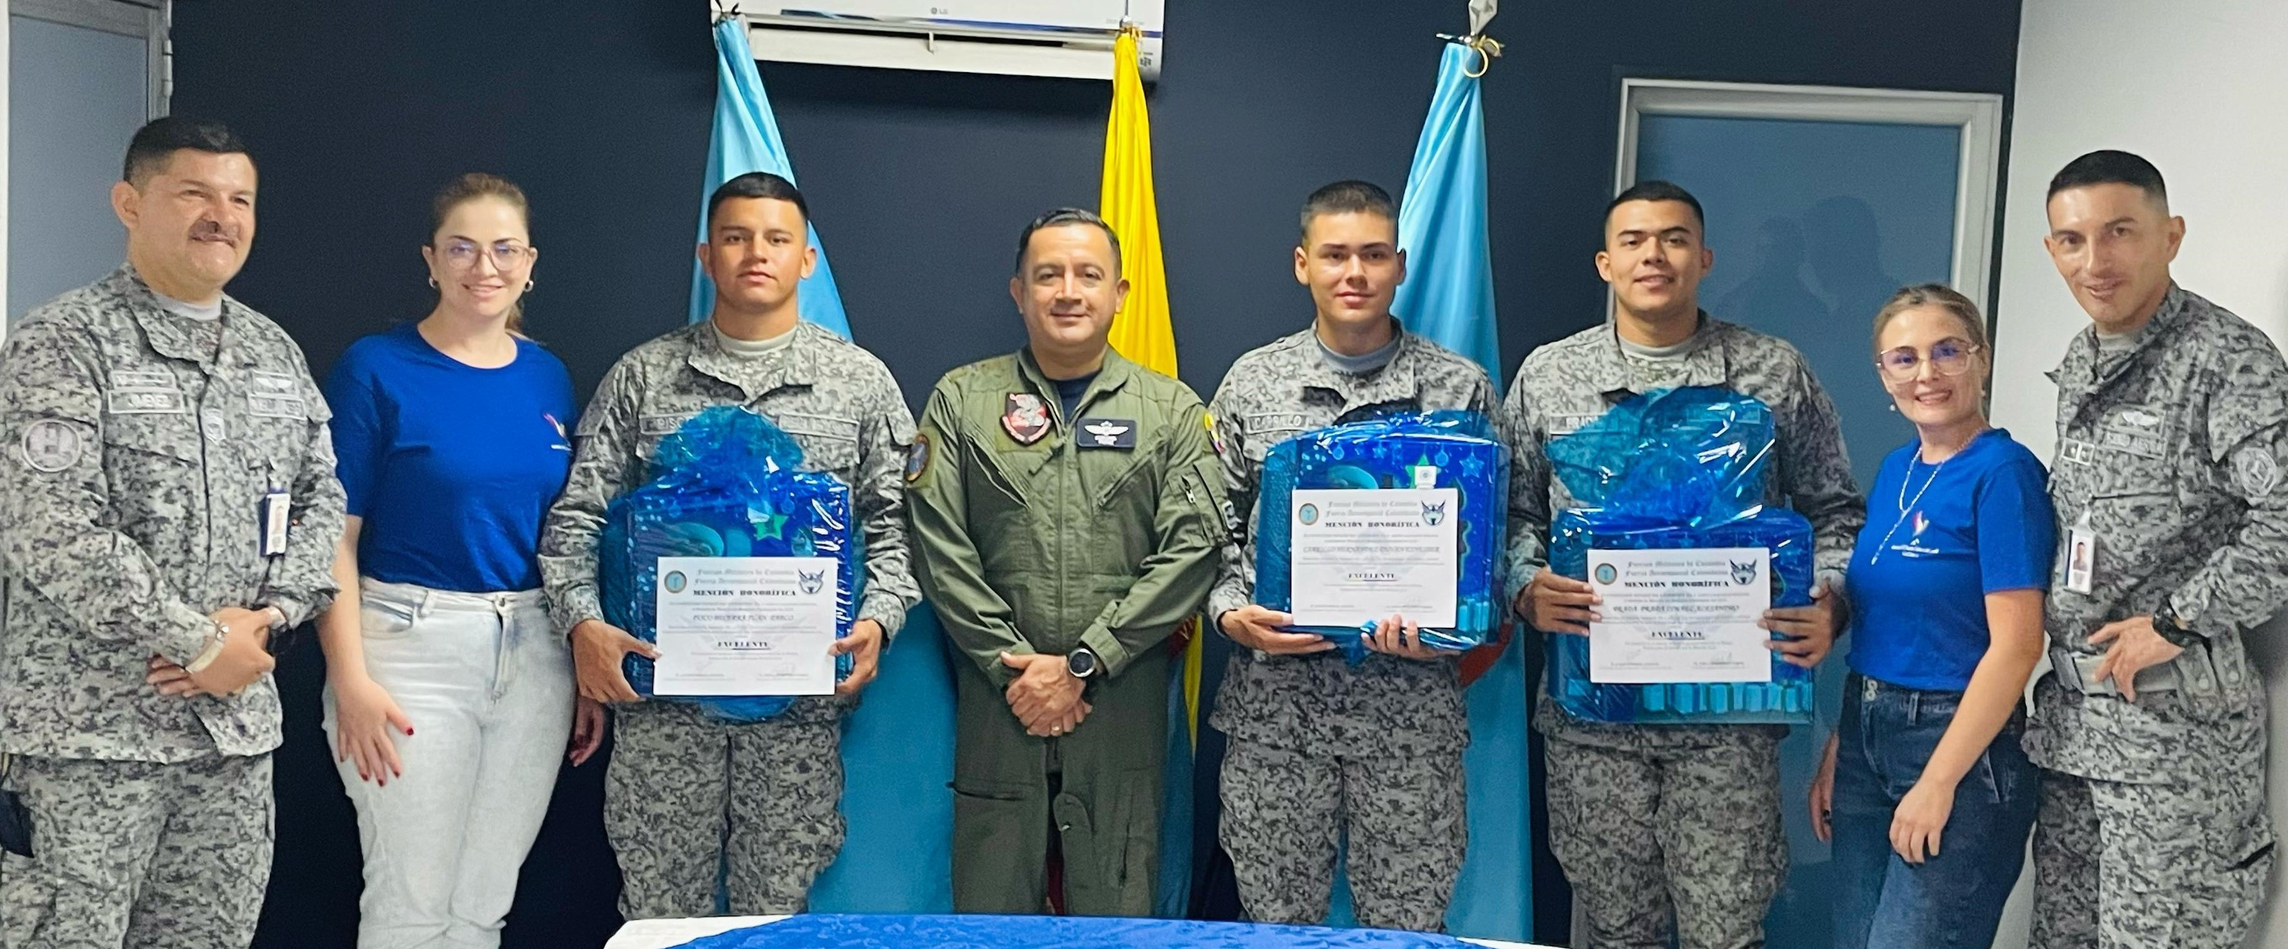
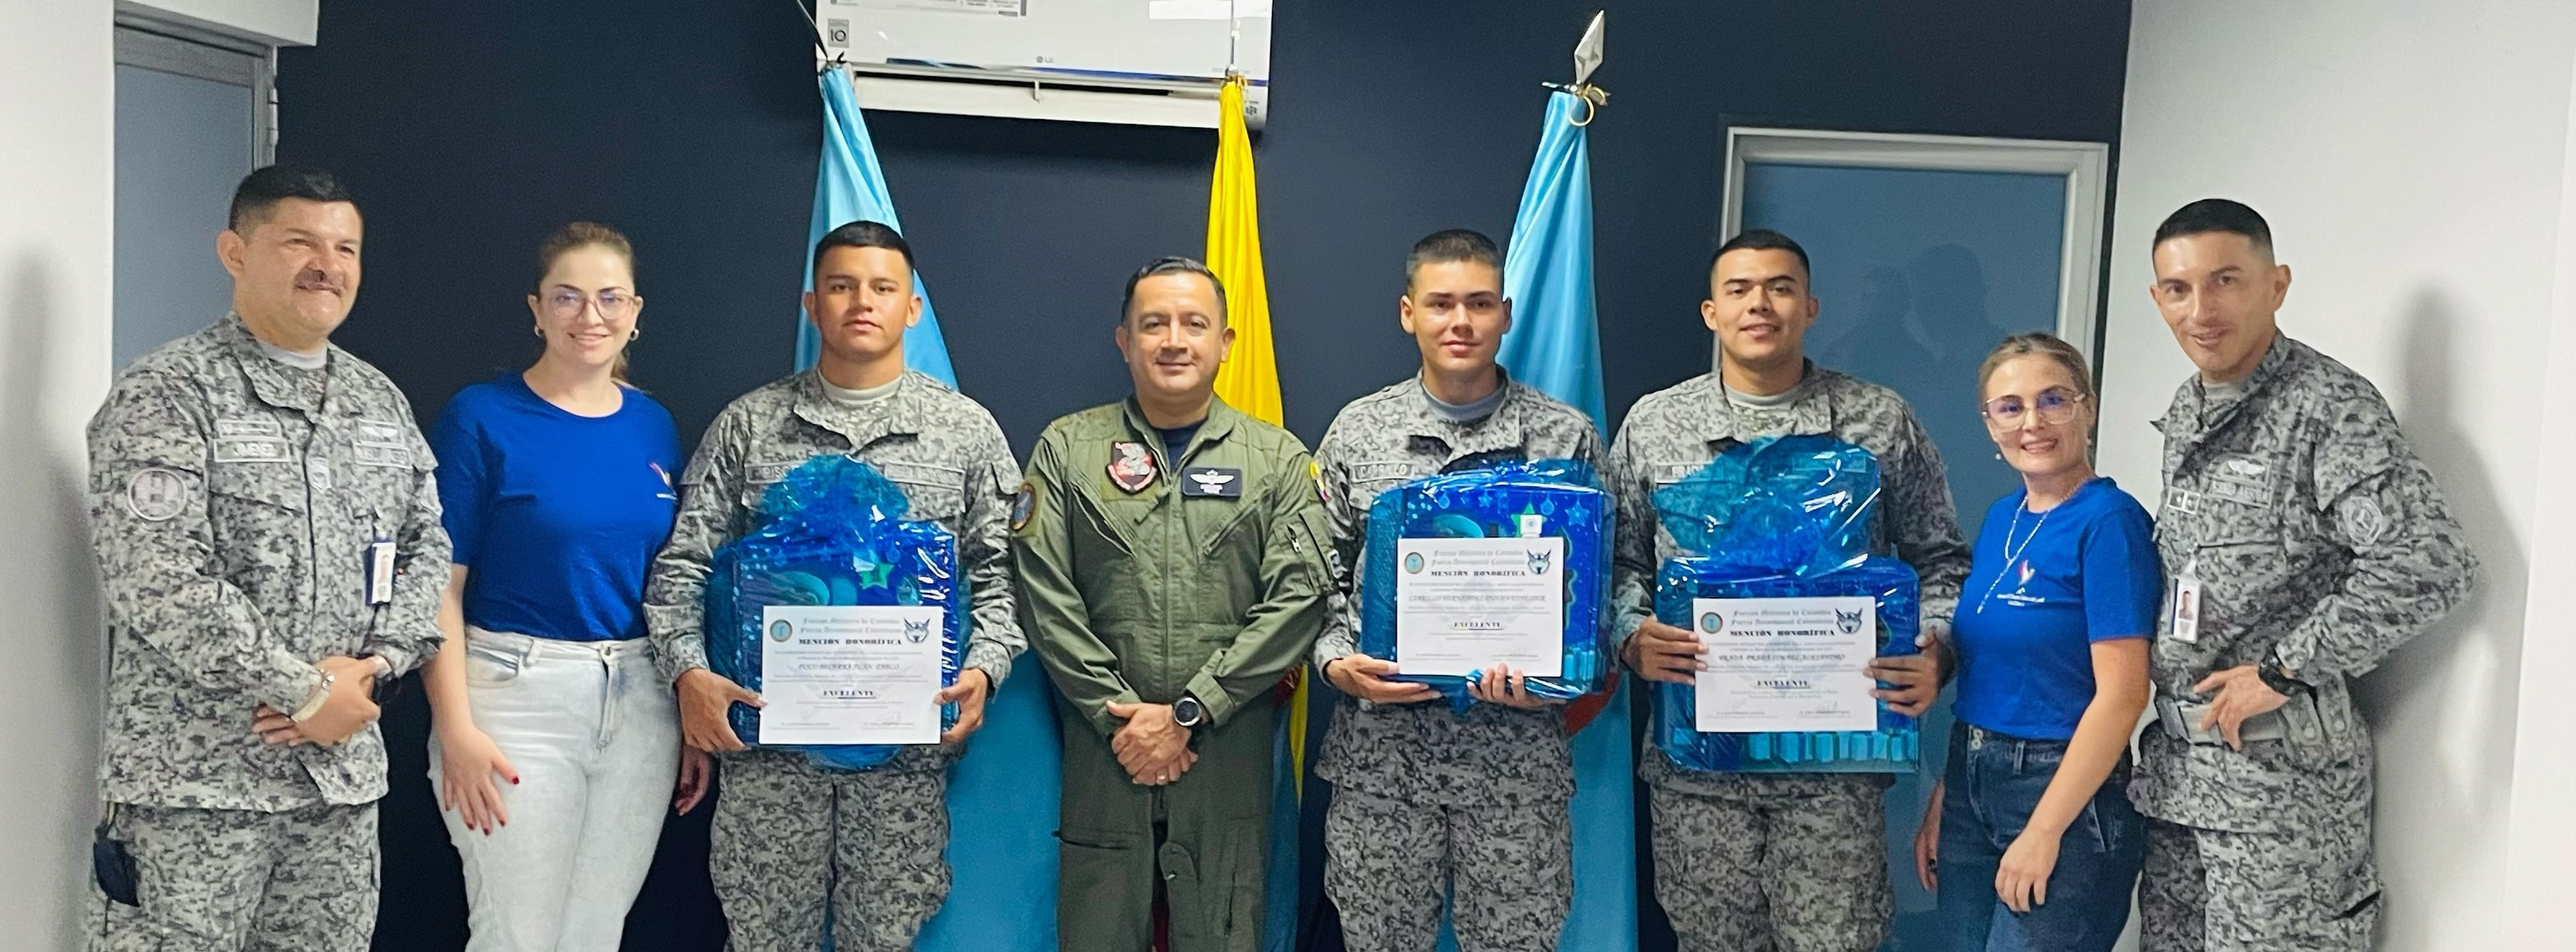
galery

diff --git a/src/components/swipe/photos.jsx b/src/components/swipe/photos.jsx
@@ -1,0 +1,49 @@
+import React, { useRef, useState } from "react";
+// Import Swiper React components
+import { Swiper, SwiperSlide } from "swiper/react";
+
+// Import Swiper styles
+import "swiper/css";
+import "swiper/css/pagination";
+import "swiper/css/navigation";
+
+// import required modules
+import { Pagination, Navigation } from "swiper/modules";
+
+export default function App() {
+  return (
+    <>
+      <Swiper
+        spaceBetween={60}
+        loop={true}
+        pagination={{
+          clickable: true,
+        }}
+        navigation={true}
+        modules={[Pagination, Navigation]}
+        className="mySwiper"
+        breakpoints={{
+          0: {
+            slidesPerView: 1,
+          },
+          768: {
+            slidesPerView: 2,
+          },
+        }}
+      >
+        <SwiperSlide>
+          <img src="/images/swiper/3.jpeg" alt="" height={500} />{" "}
+        </SwiperSlide>
+        <SwiperSlide>
+          <img src="/images/swiper/4.jpeg" alt="" height={500} />{" "}
+        </SwiperSlide>
+        <SwiperSlide>
+          <img src="/images/swiper/1.jpeg" alt="" height={500} />
+        </SwiperSlide>
+        <SwiperSlide>
+          <img src="/images/swiper/8.jpg" alt="" height={500} />{" "}
+        </SwiperSlide>
+      </Swiper>
+    </>
+  );
+}

diff --git a/src/styles/components/_hero.scss b/src/styles/components/_hero.scss
@@ -6,10 +6,15 @@
   background-image: url("/images/hero/5.jpeg");
   background-size: cover;
   background-repeat: no-repeat;
-  background-position: center;
-   padding: $base-padding * 12.3 0 $base-padding * 5;
-  z-index: 1;
+  background-position: top;
   overflow: hidden;
+  z-index: 1;
+
+  /* Altura mínima para asegurar visibilidad de la parte superior */
+  min-height: 100vh; /* ocupa el alto completo de la pantalla */
+
+  padding-top: 12rem;
+  padding-bottom: 5rem;
 
   // 🔳 Overlay que oscurece la imagen
 

diff --git a/src/styles/components/_feature.scss b/src/styles/components/_feature.scss
@@ -15,7 +15,7 @@
     }
 
     @include media-breakpoint-down-sm {
-      padding: $base-padding * 6 0 $base-padding * 4;
+      padding: $base-padding * 9 0 $base-padding * 4;
     }
 
     p {

diff --git a/src/content/pages/index.md b/src/content/pages/index.md
@@ -11,25 +11,25 @@ seo:
   no_index: false
 content_blocks:
   - _bookshop_name: global/swiper
-  - _bookshop_name: global/counter
-    title: Comprometidos con el Bienestar de
-    title_suffix: Nuestra Fuerza Aérea
-    description: >-
-      En la Asociación FAC Nuestra Señora de Loreto – Melgar trabajamos con vocación de servicio, desarrollando iniciativas que transforman positivamente la vida de quienes han dedicado su labor a la defensa de nuestro país.
-    alternate_style: false
-    numbers:
-      - prefix: +
-        number: 50
-        suffix: 
-        text: Proyectos
-      - prefix: +
-        number: 100
-        suffix:
-        text: Productos
-      - prefix: +
-        number: 700
-        suffix: 
-        text: Usuarios
+  # - _bookshop_name: global/counter
+  #   title: Comprometidos con el Bienestar de
+  #   title_suffix: Nuestra Fuerza Aeroespacial
+  #   description: >-
+  #     En la Asociación FAC Nuestra Señora de Loreto – Melgar trabajamos con vocación de servicio, desarrollando iniciativas que transforman positivamente la vida de quienes han dedicado su labor a la defensa de nuestro país.
+  #   alternate_style: false
+  #   numbers:
+  #     - prefix: +
+  #       number: 50
+  #       suffix: 
+  #       text: Proyectos
+  #     - prefix: +
+  #       number: 100
+  #       suffix:
+  #       text: Productos
+  #     - prefix: +
+  #       number: 700
+  #       suffix: 
+  #       text: Usuarios
  
   
 
@@ -46,7 +46,7 @@ content_blocks:
   #   remove_top_padding: true
   #   description: >-
   #     De manera adicional bajo el mismo principio Convergencia Digital S.A.S realiza practicas de gestión de trafico Razonables y no discriminatorias respecto a otros proveedores de servicio, contenidos o protocolos de red específicos.
-
+  
   - _bookshop_name: global/testimonial/testimonialSlider
     title: 
     title_suffix: Conoce nuestros servicios
@@ -57,7 +57,7 @@ content_blocks:
         image_alt: Gestión de Apoyos Interinstitucionales
         author: Gestión de Apoyos Interinstitucionales
         message: >-
-          Canalizamos solicitudes de respaldo ante entidades públicas, privadas y académicas para desarrollar proyectos que beneficien directamente a los miembros de la Fuerza Aérea Colombiana y sus familias.
+          Canalizamos solicitudes de respaldo ante entidades públicas, privadas y académicas para desarrollar proyectos que beneficien directamente a los miembros de la Fuerza Aeroespacial Colombiana y sus familias.
       - image: /images/testimonial/logo-2.jpg
         image_alt: Intervención Social Estratégica
         author: Intervención Social Estratégica
@@ -71,7 +71,7 @@ content_blocks:
         message: >-
          Adquirimos, gestionamos y destinamos bienes muebles, inmuebles y donaciones con total transparencia, asegurando su uso en programas que fortalecen la educación, la salud y el desarrollo social.
     
-
+  - _bookshop_name: swipe/photos
   # - _bookshop_name: global/faq
   #   title: Marco
   #   title_suffix: Legal
